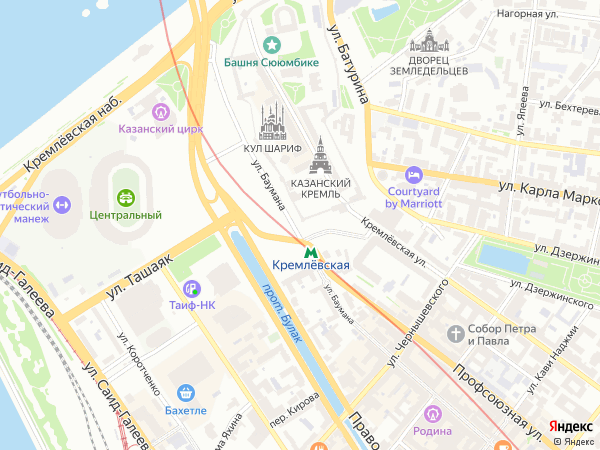
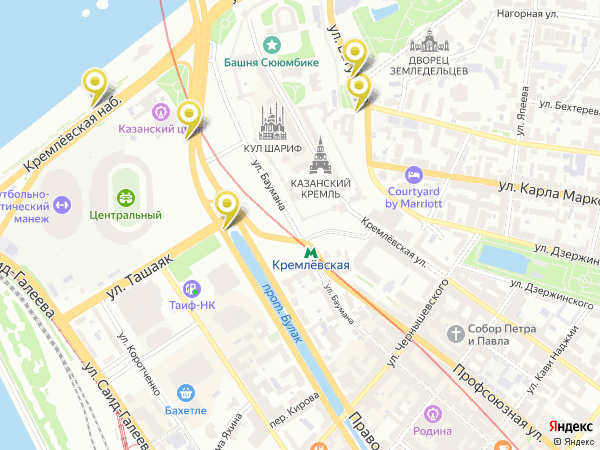
fixed 2.0

diff --git a/main.py b/main.py
@@ -1,5 +1,6 @@
 import os
 import sys
+import pprint
 import pygame
 import requests
 import math
@@ -10,20 +11,6 @@ map_api_server = "http://static-maps.yandex.ru/1.x/"
 map_file = "map.png"
 map_types = ['map', 'sat', 'sat,skl']
 type_ind = 0
-
-
-def load_image(name, color_key=None):
-    fullname = os.path.join('data', name)
-    if not os.path.isfile(fullname):
-        print(f"Файл с изображением '{fullname}' не найден")
-        sys.exit()
-    image = pygame.image.load(fullname)
-
-    if color_key is not None:
-        if color_key == -1:
-            color_key = image.get_at((0, 0))
-        image.set_colorkey(color_key)
-    return image
 
 
 def change_ll(ind):
@@ -62,13 +49,6 @@ running = True
 search_text = ''
 API_KEY = '40d1649f-0493-4b70-98ba-98533de7710b'
 
-all_sprites = pygame.sprite.Group()
-arrow_image = load_image("arrow.png")
-
-arrow = pygame.sprite.Sprite(all_sprites)
-arrow.image = arrow_image
-arrow.rect = arrow.image.get_rect()
-
 
 def geocode(address):
     geocoder_request = f"http://geocode-maps.yandex.ru/1.x/"
@@ -103,6 +83,15 @@ def get_coordinates(address):
     return toponym_longitude, toponym_lattitude
 
 
+def screen_to_geo(pos):
+    dy = 225 - pos[1]
+    dx = pos[0] - 300
+    lx = lon + dx * coord_to_geo_x * math.pow(2, 15 - zoom)
+    ly = lat + dy * coord_to_geo_y * math.cos(math.radians(lat)) * math.pow(2, 15 - zoom)
+    return lx, ly
+
+
+
 def get_pos_name(geocoder_request):
     geocoder_request = f"http://geocode-maps.yandex.ru/1.x/?apikey=40d1649f-0493-4b70-98ba-98533de7710b&geocode=" \
                        f"{geocoder_request}&format=json"
@@ -117,6 +106,19 @@ def get_pos_name(geocoder_request):
         toponym_coodrinates = toponym["Point"]["pos"].split()[::-1]
         return toponym_address
 
+def get_postal_code(geocoder_request):
+    try:
+        geocoder_request = get_pos_name(geocoder_request)
+        geocoder_request = f"http://geocode-maps.yandex.ru/1.x/?apikey=40d1649f-0493-4b70-98ba-98533de7710b&geocode=" \
+                           f"{geocoder_request}&format=json"
+        response = requests.get(geocoder_request)
+        res_dict = response.json()
+        info = res_dict["response"]["GeoObjectCollection"]['featureMember'][0]['GeoObject']
+        postal_code = info['metaDataProperty']['GeocoderMetaData']['Address']['postal_code']
+        return postal_code
+    except KeyError:
+        pass
+
 
 coord_to_geo_x = 0.0000428
 coord_to_geo_y = 0.0000428
@@ -124,14 +126,7 @@ lat = 55.796127
 lon = 49.106414
 zoom = 15
 
-
-def screen_to_geo(pos):
-    dy = 225 - pos[1]
-    dx = pos[0] - 300
-    lx = lon + dx * coord_to_geo_x * math.pow(2, 15 - zoom)
-    ly = lat + dy * coord_to_geo_y * math.cos(math.radians(lat)) * math.pow(2, 15 - zoom)
-    return lx, ly
-
+add_postal_code = False
 
 while running:
     for event in pygame.event.get():
@@ -140,11 +135,14 @@ while running:
 
         if event.type == pygame.MOUSEBUTTONDOWN:
             pos = pygame.mouse.get_pos()
-            arrow.rect.x = pos[0] - 25
-            arrow.rect.y = pos[1] - 25
             #починить появление
             POINTS.append(','.join(list(map(str, screen_to_geo(pos)))) + ',pm2ywl')
-            pygame.display.set_caption(get_pos_name(screen_to_geo(pos)))
+            if add_postal_code:
+                pygame.display.set_caption(
+                    f"{get_pos_name(screen_to_geo(pos))} почтовый индекс: "
+                    f"{get_postal_code(screen_to_geo(pos))}")
+            else:
+                pygame.display.set_caption(get_pos_name(screen_to_geo(pos)))
 
         elif event.type == pygame.KEYDOWN:
             char = event.unicode
@@ -157,9 +155,8 @@ while running:
                 search_text += char
             if event.key == pygame.K_RETURN:
                 COORDS = list(map(float, get_coordinates(search_text)))
-
-                search_text = get_pos_name(search_text)
-                POINTS.append(','.join(list(map(str, COORDS))) + ',pm2ywl')
+            if event.key == pygame.K_SPACE:
+                add_postal_code = True
 
             pygame.display.set_caption(search_text)
             try:
@@ -189,8 +186,6 @@ while running:
                     SPN[0] = round(SPN[0] - 0.02, 3)
                     SPN[1] = round(SPN[1] - 0.02, 3)
     screen.blit(pygame.image.load(map_file), (0, 0))
-    all_sprites.update()
-    all_sprites.draw(screen)
     pygame.display.flip()
 
 pygame.quit()
